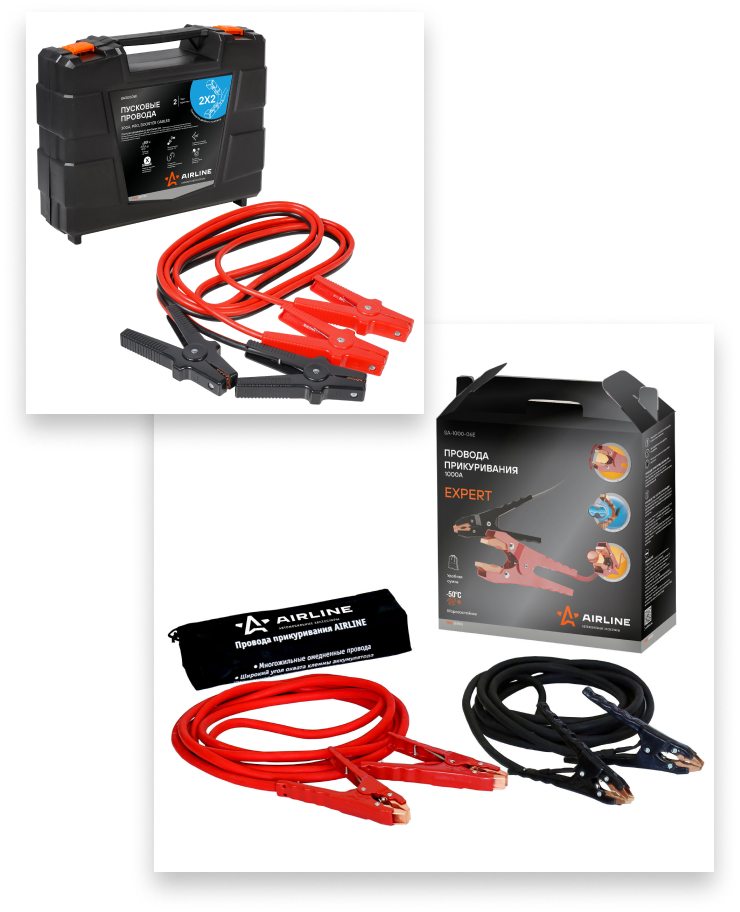
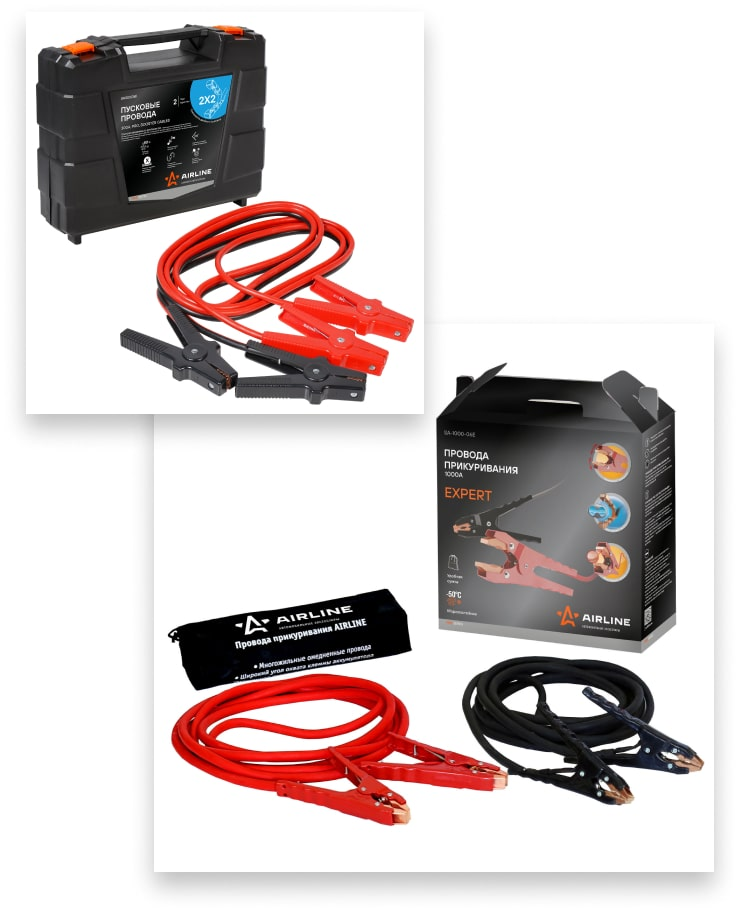
Compress images.

diff --git a/public/index.html b/public/index.html
@@ -62,7 +62,7 @@
 
 
 
-        <link rel="stylesheet" href="css/main.css?t=1678050380121" />
+        <link rel="stylesheet" href="css/main.css?t=1678051041458" />
     </head>
 
     <body>
@@ -332,7 +332,7 @@
 
 
 
-        <script src="js/main.js?t=1678050380121"></script>
+        <script src="js/main.js?t=1678051041458"></script>
 
         <div id="notify" class="notify"></div>
 
